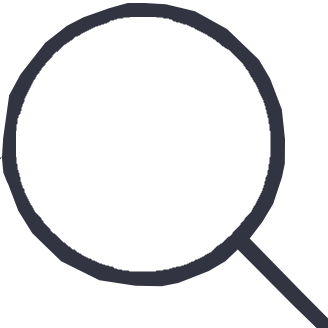
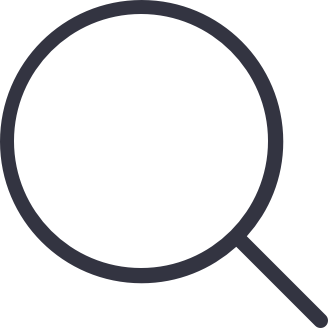
Images adjustments

diff --git a/css/default.css b/css/default.css
@@ -1,5 +1,4 @@
-@charset "UTF-8";
-@import url("https://fonts.googleapis.com/css?family=Montserrat|Open+Sans:300|Raleway|Nunito:200");
+@import url("https://fonts.googleapis.com/css?family=Montserrat|Open+Sans:300|Raleway");
 * {
   padding: 0;
   margin: 0;
@@ -36,25 +35,25 @@ button {
 
 @-webkit-keyframes arrow-move {
   0% {
-    padding-bottom: 0;
+    margin-bottom: 0;
   }
   50% {
-    padding-bottom: 2rem;
+    margin-bottom: 2rem;
   }
   100% {
-    padding-bottom: 0;
+    margin-bottom: 0;
   }
 }
 
 @keyframes arrow-move {
   0% {
-    padding-bottom: 0;
+    margin-bottom: 0;
   }
   50% {
-    padding-bottom: 2rem;
+    margin-bottom: 2rem;
   }
   100% {
-    padding-bottom: 0;
+    margin-bottom: 0;
   }
 }
 
@@ -96,13 +95,10 @@ search-header {
 .search-header #geek-label {
   top: 3.6rem;
   left: 4rem;
-  width: 8.1rem;
-  height: 2.4rem;
+  width: 8rem;
+  height: 10rem;
   display: block;
-  background: transparent url("../images/geek_logo.png") no-repeat scroll top center;
-  padding-top: 8.5rem;
-  letter-spacing: 0.1rem;
-  text-align: center;
+  background: no-repeat center top/cover url("../images/geek_logo.png");
   font: 1.4em/1 "Open Sans", Arial, sans-serif;
   color: white;
   text-decoration: none;
@@ -123,7 +119,7 @@ search-header {
   position: relative;
   width: 66.4rem;
   height: 46.6rem;
-  background: transparent url("../images/music_search.jpg") no-repeat;
+  background: no-repeat center top/cover url("../images/music_search.png");
   margin: 0 auto;
   font-family: "Open Sans", Arial, sans-serif;
   font-weight: lighter;
@@ -133,6 +129,9 @@ search-header {
   position: absolute;
   left: 50%;
   bottom: -3.6rem;
+  width: 4.3rem;
+  height: 5.6rem;
+  background: no-repeat center top/cover url("../images/arrow_down.png");
   display: block;
   color: white;
   font-size: 2.6rem;
@@ -141,7 +140,7 @@ search-header {
 .search-header.visible h1:after {
   -webkit-animation: arrow-move 3s infinite;
           animation: arrow-move 3s infinite;
-  content: "↓";
+  content: "";
 }
 
 search-box {
@@ -359,7 +358,9 @@ entry-details .entry header .close {
   position: absolute;
   top: 3rem;
   right: 3rem;
-  font: 3rem Nunito, Arial, sans-serif;
+  width: 2.3rem;
+  height: 2.3rem;
+  background: no-repeat center top/cover url("../images/close.png");
   color: white;
   text-decoration: none;
 }

diff --git a/sass/_SearchHeader.sass b/sass/_SearchHeader.sass
@@ -14,12 +14,9 @@ search-header
 
   #geek-label
     +position($top: 3.6rem, $left: 4rem)
-    +size(8.1rem, 2.4rem)
+    +size(8rem, 10rem)
     display: block
-    background: transparent url("../images/geek_logo.png") no-repeat scroll top center
-    padding-top: 8.5rem
-    letter-spacing: 0.1rem
-    text-align: center
+    background: no-repeat center top/cover url("../images/geek_logo.png")
     font: 1.4em/1 $font-open-sans
     color: white
     text-decoration: none
@@ -36,17 +33,19 @@ search-header
   h1
     +position(relative)
     +size(66.4rem, 46.6rem)
-    background: transparent url("../images/music_search.jpg") no-repeat
+    background: no-repeat center top/cover url("../images/music_search.png")
     margin: 0 auto
     font-family: $font-open-sans
     font-weight: lighter
 
   h1:after
     +position(absolute, $bottom: -3.6rem, $left: 50%)
+    +size(4.3rem, 5.6rem)
+    background: no-repeat center top/cover url("../images/arrow_down.png")
     display: block
     color: white
     font-size: 2.6rem
 
   &.visible h1:after
     animation: arrow-move 3s infinite
-    content: "↓"
+    content: ""

diff --git a/scripts/templates/SearchHeader.html b/scripts/templates/SearchHeader.html
@@ -1,5 +1,5 @@
 <header ng-class="{'search-header': true, 'visible': searchHeader.visible}">
-  <a href="http://www.geeklabel.com" target="_blank" id="geek-label">Geek Label</a>
+  <a href="http://www.geeklabel.com" target="_blank" id="geek-label"><!-- Geek Label --></a>
   <h1 ng-click="searchHeader.notify($event)"><!-- Music Search --></h1>
   <a href="https://www.spotify.com" target="_blank" id="spotify">Powered by Spotify</a>
 </header>

diff --git a/scripts/templates/EntryDetails.html b/scripts/templates/EntryDetails.html
@@ -3,7 +3,7 @@
     <header>
       <img ng-src="{{ entryDetails.entry.image.url }}" ng-attr-alt="entryDetails.entry.title" />
       <h2 ng-bind="entryDetails.entry.title"></h2>
-      <a href="#" class="close" ng-click="entryDetails.unset($event)">X</a>
+      <a href="#" class="close" ng-click="entryDetails.unset($event)"><!-- Close --></a>
     </header>
     <div class="albums">
       <h2>Albums</h2>

diff --git a/sass/_EntryDetails.sass b/sass/_EntryDetails.sass
@@ -33,7 +33,8 @@ entry-details
         color: white
       .close
         +position(absolute, $top: 3rem, $right: 3rem)
-        font: 3rem $font-nunito
+        +size(2.3rem, 2.3rem)
+        background: no-repeat center top/cover url("../images/close.png")
         color: white
         text-decoration: none
     .albums

diff --git a/sass/_animations.sass b/sass/_animations.sass
@@ -1,10 +1,10 @@
 @keyframes arrow-move
   0%
-    padding-bottom: 0
+    margin-bottom: 0
   50%
-    padding-bottom: 2rem
+    margin-bottom: 2rem
   100%
-    padding-bottom: 0
+    margin-bottom: 0
 
 @keyframes fade-in
   0%

diff --git a/sass/_general.sass b/sass/_general.sass
@@ -1,4 +1,4 @@
-@import url('https://fonts.googleapis.com/css?family=Montserrat|Open+Sans:300|Raleway|Nunito:200')
+@import url('https://fonts.googleapis.com/css?family=Montserrat|Open+Sans:300|Raleway')
 
 *
   padding: 0
